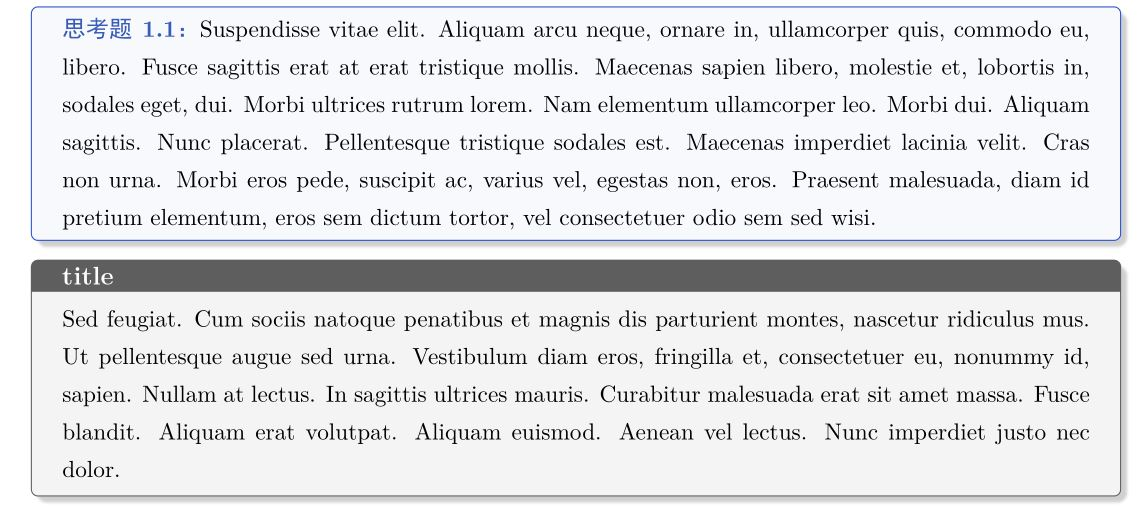
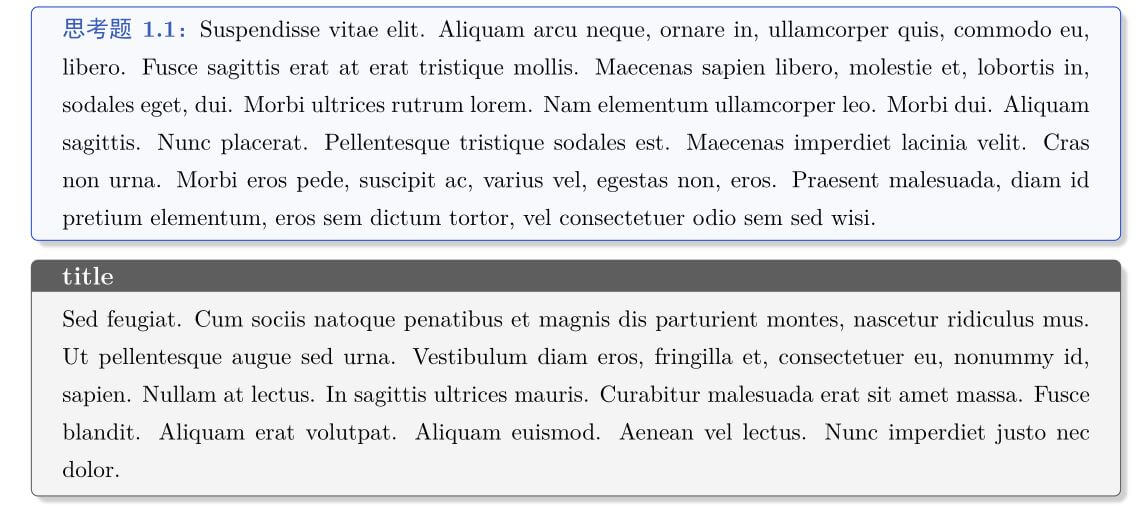
style(LQIP): 给图片增加了LQIP功能

Changed region(s): [[0.5201, 0.3385, 0.5507, 0.3692]]

diff --git a/_posts/2024-04-05-Python-Notes1.md b/_posts/2024-04-05-Python-Notes1.md
@@ -3,14 +3,16 @@ title:      "&sect;1 Python: Introduction and Study Resources"
 date:       2024-04-05
 categories: [Python]
 tag: [Python]
-image: /in-post/2024-04-05/python.jpg
+image: 
+    path: /in-post/2024-04-05/python.jpg
+    lqip: /in-post/2024-04-05/lqip-file
 ---
 ## Python 简介
 Python 是一种高级的解释型、动态类型和面向对象的计算机编程语言，Python 的设计哲学，强调代码的可读性和简洁的语法，尤其是使用空格缩进来划分代码块。相比于 C 语言或 Java，Python 让开发者能够用更少的代码表达想法。对于编程初学者来说，学习 Python 是十分推荐的。
 
 目前世界上有数百种编程语言，但实际真正流行的编程语言只有十几种。查看最近的 TIBOE 排行榜（反应不同编程语言的流行程度）可以发现 Python 在近几年使用量与日俱增，且目前位列第一。
 
-![TIBOE](/in-post/2024-04-05/TIBOE.PNG){: .shadow style="border-radius: 10px;"}
+![TIBOE](/in-post/2024-04-05/TIBOE.PNG){: .shadow lqip="/in-post/2024-04-05/TIBOE.PNG" style="border-radius: 10px;"}
 
 当然这也并不意味着其他编程语言一无是处，Python 毫无缺点。事实上，作为一门高级语言，它最大的缺点就是运行速度较慢。考虑到 Python 是一门解释型语言，在开发过程中它省去了编译的环节，没能将代码编译成底层的二进制代码，所以 Python 程序相比类似于 C 语言的完全编译的语言程序要慢很多。但实际上，Python 里一些程序是通过发送到其内部已经编译好的 C 语言代码处理的，在绝大部分领域运行的速度也足够快。且日常使用中，很少需要编写处理海量数据的大型代码，类似于 0.001s 和 1s 的编译时间差实际上基本没什么影响。
 
@@ -79,8 +81,8 @@ python application.py install
 ```
 最后启动 Jupyter notebook 便可以看到插件了。
 
-![extensions](/in-post/2024-04-05/extensions_light.PNG){: .light .rounded-10 .shadow }
-![extensions](/in-post/2024-04-05/extensions_dark.PNG){: .dark .rounded-10 .shadow }
+![extensions](/in-post/2024-04-05/extensions_light.PNG){: lqip="/in-post/2024-04-05/lqip-file" .light .rounded-10 .shadow }
+![extensions](/in-post/2024-04-05/extensions_dark.PNG){: lqip="/in-post/2024-04-05/lqip-file" .dark .rounded-10 .shadow }
 
 注意如果安装失败，需要卸载再重新安装，通过
 ```shell
@@ -108,11 +110,11 @@ pip install notebook==6.4.6
 ### 常用快捷键
 在 `.ipynb` 文件里按键 <key>H</key> 即可进入快捷键界面，如下图所示，
 
-![kuaijie1](/in-post/2024-04-05/kuaijie1_light.PNG){: .light}
-![kuaijie1](/in-post/2024-04-05/kuaijie1_dark.PNG){: .dark}
+![kuaijie1](/in-post/2024-04-05/kuaijie1_light.PNG){: lqip="/in-post/2024-04-05/lqip-file" .light}
+![kuaijie1](/in-post/2024-04-05/kuaijie1_dark.PNG){: lqip="/in-post/2024-04-05/lqip-file" .dark}
 
-![kuaijie2](/in-post/2024-04-05/kuaijie2_light.PNG){: .light}
-![kuaijie2](/in-post/2024-04-05/kuaijie2_dark.PNG){: .dark}
+![kuaijie2](/in-post/2024-04-05/kuaijie2_light.PNG){: lqip="/in-post/2024-04-05/lqip-file" .light}
+![kuaijie2](/in-post/2024-04-05/kuaijie2_dark.PNG){: lqip="/in-post/2024-04-05/lqip-file" .dark}
 
 ### 更换主题
 在终端中运行 `pip install --upgrade jupyterthemes` 即可，通过命令 `jt-l` 可以查看主题列表：
@@ -135,7 +137,7 @@ jt -t onedork -f bitstream -fs 11 -nfs 11 -tfs 12 -ofs 11 -lineh 200 -cellw 75% 
 
 我设置的 Jupyter 主题效果见下图。
 
-![jupyter-theme](/in-post/2024-04-05/jupyter_theme.PNG)
+![jupyter-theme](/in-post/2024-04-05/jupyter_theme.PNG){: lqip="/in-post/2024-04-05/lqip-file"}
 
 > 若产生**报错**：'jt' 不是内部或外部命令,也不是可运行的程序。
 >
@@ -163,8 +165,8 @@ jupyter nbconvert filename.ipynb --to html --HTMLExporter.theme=light
 ```
 也可以直接加入各种 emoji 表情包，如 😂😆📑🌐🔍🎓 ，具体效果如下图所示：
 
-![colorbox](/in-post/2024-04-05/colorbox_light.PNG){: .light  .shadow}
-![colorbox](/in-post/2024-04-05/colorbox_dark.PNG){: .dark  .shadow}
+![colorbox](/in-post/2024-04-05/colorbox_light.PNG){: lqip="/in-post/2024-04-05/lqip-file" .light  .shadow}
+![colorbox](/in-post/2024-04-05/colorbox_dark.PNG){: lqip="/in-post/2024-04-05/lqip-file" .dark  .shadow}
 
 将一切准备工作做好后，就可以安心写代码了。
 

diff --git a/_posts/2023-04-10-LabReport-Template.md b/_posts/2023-04-10-LabReport-Template.md
@@ -3,9 +3,11 @@ title:      "中山大学物理与天文学院本科实验报告模板"
 date:       2023-04-10
 categories: [LaTeX]
 tag: [LaTeX]
-image: /in-post/2023-04-10/preface.PNG
+image: 
+  path: /in-post/2023-04-10/preface.PNG
+  lqip: /in-post/2023-04-10/lqip-file
 ---
-> "The laws of physics is the canvas God laid down on which to paint his masterpiece" <br>
+> "The laws of physics is the canvas God laid down on which to paint his masterpiece"
 > --- Dan Brown.
 
 ## 写在前面
@@ -67,7 +69,7 @@ stepnumber=1,
 rulesepcolor=\color{gray!30!white}
 }
 ```
-![code](/in-post/2023-04-10/readme1.jpg)
+![code](/in-post/2023-04-10/readme1.jpg){: lqip="/in-post/2023-04-10/lqip-file"}
 3. 本模板定义了两种形式的 `box` ，可参考 `tcolorbox` 宏包的手册进行修改，
 ```latex
 \usepackage{tcolorbox}
@@ -97,9 +99,9 @@ rulesepcolor=\color{gray!30!white}
   #1
 }
 ```
-![colorbox](/in-post/2023-04-10/readme2.jpg)
+![colorbox](/in-post/2023-04-10/readme2.jpg){: lqip="/in-post/2023-04-10/lqip-file"}
 4. TikZ 作为一个知名的绘图宏包（其文档说明高达1000多页，超乎常人想象），在此补充了一些 TikZ 实例
-![](/in-post/2023-04-10/readme3.JPG)
+![TikZ example](/in-post/2023-04-10/readme3.JPG){: lqip="/in-post/2023-04-10/lqip-file"}
 
 ## 声明
 * 本模板仅供学习交流所用，_非学院官方模板_。

diff --git a/_posts/2022-04-19-Mathematics-For-Zhihu.md b/_posts/2022-04-19-Mathematics-For-Zhihu.md
@@ -4,7 +4,9 @@ date:       2022-04-19
 categories: [Mathematics, Integration]
 tag: [special function, integration]
 toc: false
-image: /in-post/2022-04-19/preface.PNG
+image: 
+    path: /in-post/2022-04-19/preface.PNG
+    lqip: /in-post/2022-04-19/lqip-file
 ---
 >To each individual the world will take on a different connotation of meaning-the important lies in the desire to search for an answer.
 >
@@ -20,9 +22,11 @@ Writing answers is actually a way to output knowledge.
 
 This is one of the chapters of my personal notes, which captures my answers on some question-and-answer sites. 
 
-And this post was first posted on [Zhihu](https://zhuanlan.zhihu.com/p/501422450), you can see the summary in [**PDF**](/assets/pdf/Zhihu-Summary.pdf).
+And this post was first posted on [Zhihu](https://zhuanlan.zhihu.com/p/501422450).
 
-
+> <i class="fas fa-hand-point-down"></i> Download the PDF file here.
+> - **[Mathematical-Answers.pdf](/assets/pdf/Mathematical-Answers.pdf)**
+{: .prompt-info}
 
 ## Update:
 * April 19, 2022: version 1.0 is published.

diff --git a/_posts/2024-04-16-Higgs-mechanism.md b/_posts/2024-04-16-Higgs-mechanism.md
@@ -3,12 +3,15 @@ title:      "In Memory of Peter Higgs: What is the Higgs Mechanism?"
 date:       2024-04-16
 categories: [Quantum Field Theory]
 tag: [quantum field theory]
-image: /in-post/2024-04-16/Higgs.jpg
+image: 
+    path: /in-post/2024-04-16/Higgs.jpg
+    lqip: /in-post/2024-04-16/lqip-file
+    alt: Peter Higgs
 ---
 
 University of Edinburgh News, April 8th, local time: Peter Higgs, the British theoretical physicist and recipient of the 2013 Nobel Prize in Physics, passed away peacefully at his home due to illness at the age of 94.
 
-![Nobel Prize](/in-post/2024-04-16/Nobel prize.jpg){: width="600" .shadow}
+![Nobel Prize](/in-post/2024-04-16/Nobel prize.jpg){: lqip="/in-post/2024-04-16/lqip-file" width="600" .shadow}
 _2013 Nobel prize in physics_
 
 Higgs is most widely known for his contribution in 1964, proposing the Higgs mechanism, which predicted the existence of the Higgs boson and revealed the origin of mass for all fundamental particles, including the W boson.

diff --git a/_tabs/about.md b/_tabs/about.md
@@ -26,7 +26,7 @@ Welcome to my Blog! It's generated from a static web page built using Jekyll on 
 
 🌐 **Online Presence:**
 
-* [Github](https://github.com/huanyushi)
+* [GitHub](https://github.com/huanyushi)
 * [Zhihu](https://www.zhihu.com/people/za-ran-zhu-fu-liu-xing) (A Chinese Q&A website)
 * [Stack Exchange](https://stackexchange.com/users/24950721/huanyu-shi)
 
@@ -39,7 +39,6 @@ Welcome to my Blog! It's generated from a static web page built using Jekyll on 
 
 ## 中文
 > 天地有正气，杂然赋流形。
-> 
 > --- 文天祥
 
 你好，我是 Huanyu Shi，一位物理学一年级博士牲。
@@ -58,7 +57,7 @@ Welcome to my Blog! It's generated from a static web page built using Jekyll on 
 
 🌐 **互联网影分身：**
 
-* [Github](https://github.com/huanyushi)
+* [GitHub](https://github.com/huanyushi)
 * [知乎](https://www.zhihu.com/people/za-ran-zhu-fu-liu-xing)
 * [Stack Exchange](https://stackexchange.com/users/24950721/huanyu-shi)
 

diff --git a/_posts/2023-05-10-Integral-Logarithm.md b/_posts/2023-05-10-Integral-Logarithm.md
@@ -4,7 +4,9 @@ date:       2023-05-10
 categories: [Mathematics, Integration]
 tag: [integration]
 math: true
-image: /in-post/2023-05-10/preface.PNG
+image: 
+    path: /in-post/2023-05-10/preface.PNG
+    lqip: /in-post/2023-05-10/preface.PNG
 ---
 ## Question:
 Try to solve the following integral:
@@ -18,7 +20,7 @@ I have answered this question on Zhihu, you can find it [here](https://www.zhihu
 ## Solution:
 We define $ f(z) = z \ln(1+z)/(1+z^4) $ firstly, and choose the following quarter-circle contour:
 
-![contour](/in-post/2023-05-10/contour.JPG){: width="400" }
+![contour](/in-post/2023-05-10/contour.JPG){: width="400"}
 
 Note that $ z = \mathrm{e}^{\pi i/4}$ is a singularity. Since there are no singularities within the contour, we can know from Cauchy's theorem that:
 

diff --git a/_posts/2023-05-03-Integral-Logarithm-cos.md b/_posts/2023-05-03-Integral-Logarithm-cos.md
@@ -4,7 +4,9 @@ date:       2023-05-03
 categories: [Mathematics, Integration]
 tag: [integration]
 math: true
-image: /in-post/Contour/semicircle-1.JPG
+image: 
+    path: /in-post/Contour/semicircle-1.png
+    lqip: /in-post/Contour/lqip-file
 ---
 ## Question:
 Try to solve the following integral:
@@ -30,7 +32,7 @@ $$
 
 So we can define $f(z) = \dfrac{1}{\ln(1-iz)}\dfrac{1}{1+z^2}$ and use the following contour,
 
-![contour](/in-post/Contour/semicircle-1.JPG){: width="500"}
+![contour](/in-post/Contour/semicircle-1.png){: width="500"}
 
 The branch point is $z=-i$, so $f(z)$ is single-valued and analytic in the upper half-plane. There is only one simple pole $z=i$ within the contour, and its corresponding residue is
 

diff --git a/_posts/2024-03-21-HTML-CSS-Notes2.md b/_posts/2024-03-21-HTML-CSS-Notes2.md
@@ -3,7 +3,9 @@ title:      "HTML and CSS study notes: CSS introduction"
 date:       2024-03-21
 categories: [HTML and CSS]
 tag: [HTML, CSS]
-image: /in-post/2024-03-21/preface.jpg
+image: 
+  path: /in-post/2024-03-21/css.jpg
+  lqip: /in-post/2024-03-21/lqip-file
 ---
 
 ## 认识 CSS
@@ -17,7 +19,7 @@ image: /in-post/2024-03-21/preface.jpg
 
 ### CSS 语法
 CSS 规则由两个主要部分构成：选择器 (selector)，以及一条或多条声明，见下图：
-![selector](/in-post/2024-03-21/selector.gif){: width= 500}
+![selector](/in-post/2024-03-21/selector.gif){: width="500"}
 
 - 选择器指向我们需要设置样式的 HTML 元素
 - 声明块包含一条或多条声明，它们彼此之间用分号间隔

diff --git a/_posts/2024-03-30-Chirpy-Blog-Customization.md b/_posts/2024-03-30-Chirpy-Blog-Customization.md
@@ -12,7 +12,7 @@ math: true
 
 有两种方法可供选择。第一种就是直接访问 Chirpy 的 github 项目页面，从它的源码里扒出来样式文件及代码。第二种则利用 git，通过命令 `bundle info --path jekyll-theme-chirpy` 获取封装的样式文件地址，如下图所示
 
-![theme file](/in-post/2024-03-30/theme-file.PNG){: .shadow width="700" }
+![theme file](/in-post/2024-03-30/theme-file.PNG){: .shadow width="700" lqip="/in-post/2024-03-30/lqip-file"}
 
 在里面找到相应的样式文件后，把它放入自己 blog 对应的文件里，就可以进行个性化定制了。
 

diff --git a/_posts/2023-11-17-Clebsh-Gordan-Coefficients.md b/_posts/2023-11-17-Clebsh-Gordan-Coefficients.md
@@ -436,7 +436,7 @@ $$
 ## CG coefficients table
 Below are partial tables of CG coefficients. You can get the corresponding CG coefficients from the tables directly.
 
-![CG table](/in-post/2023-11-17/CG-coefficients-table.jpg)
+![CG table](/in-post/2023-11-17/CG-coefficients-table.png){: lqip="/in-post/2023-11-17/lqip-file"}
 
 However, using **Mathematica** makes it more convenient. You can simply use the command `ClebschGordan[{j1,m1},{j2,m2},{J,M}]` to obtain the corresponding CG coefficients. For example, calculate $C_{5040}^{10}$,
 

diff --git a/_posts/2024-03-19-HTML-CSS-Notes1.md b/_posts/2024-03-19-HTML-CSS-Notes1.md
@@ -3,7 +3,9 @@ title:      "HTML and CSS study notes: HTML introduction"
 date:       2024-03-19
 categories: [HTML and CSS]
 tag: [HTML]
-image: /in-post/2024-03-21/html.jpg
+image: 
+    path: /in-post/2024-03-21/html.jpg
+    lqip: /in-post/2024-03-21/lqip-file
 ---
 ## 认识 HTML
 **超文本标记语言**（HyperText Markup Language，简称：**HTML**）是一种用于创建网页的标准标记语言。利用其编写的文件放在 Web 服务器上，任何浏览器就能通过互联网得到相应的 Web 页面。
